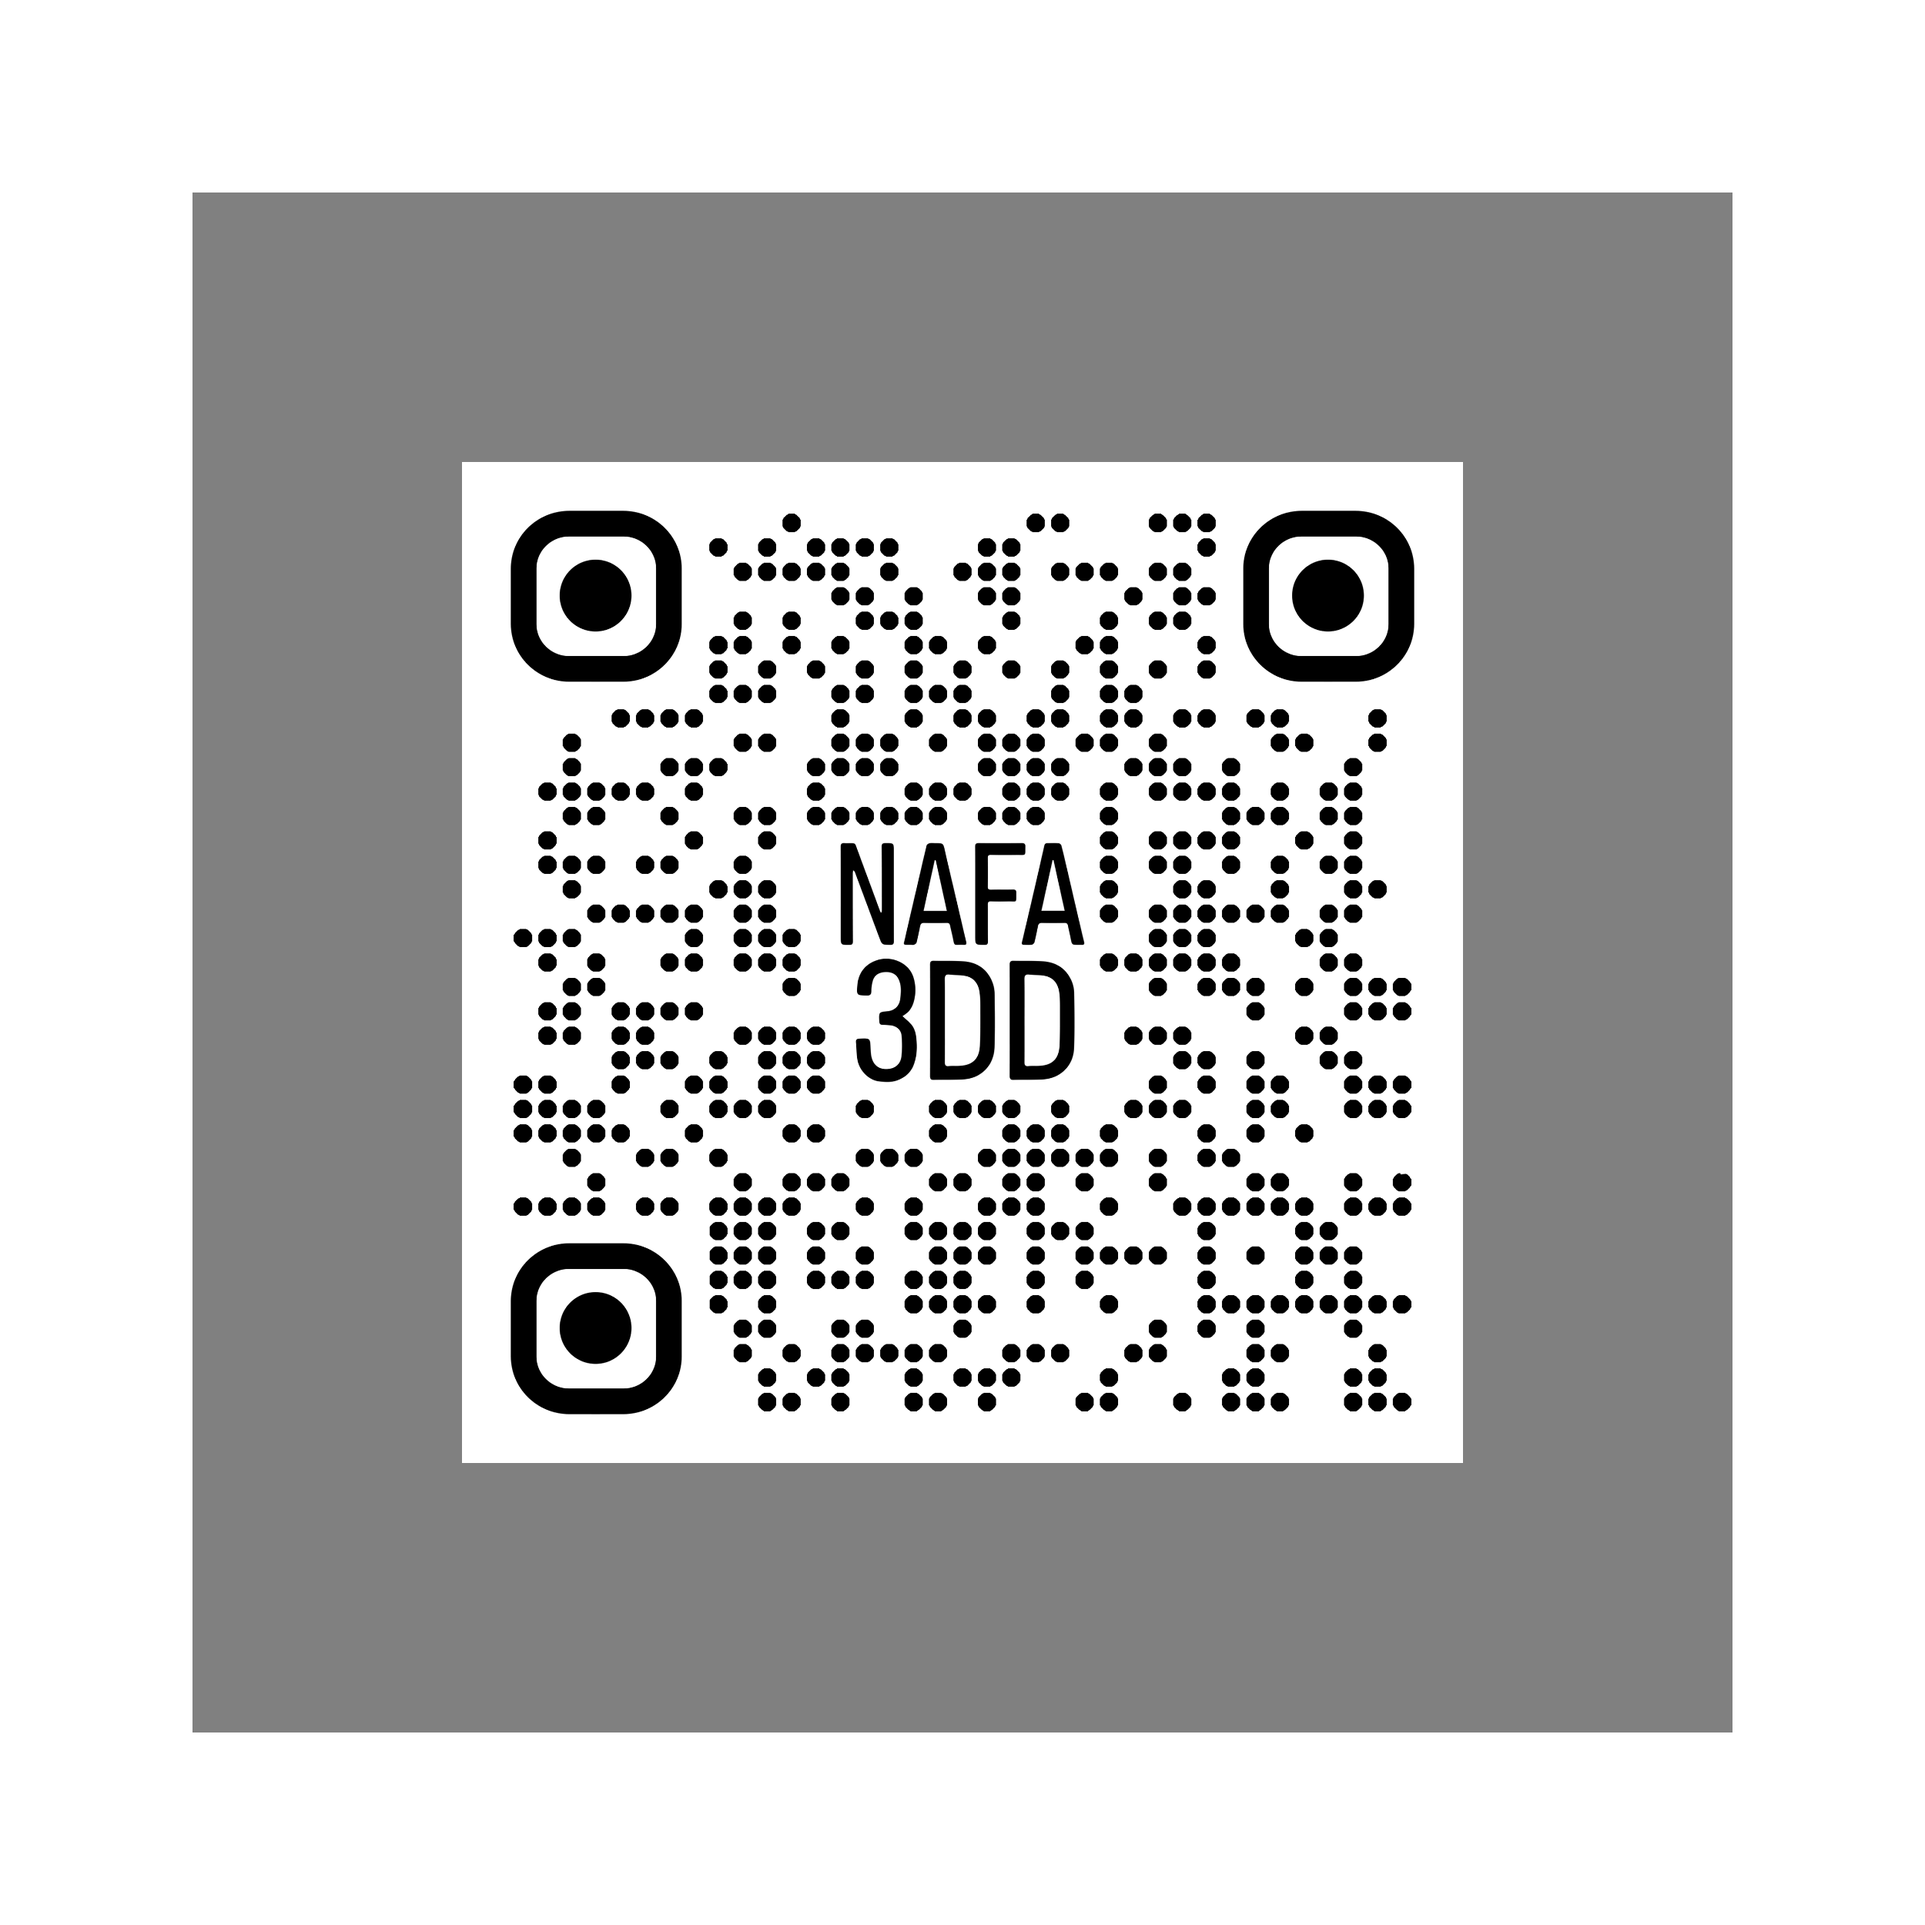
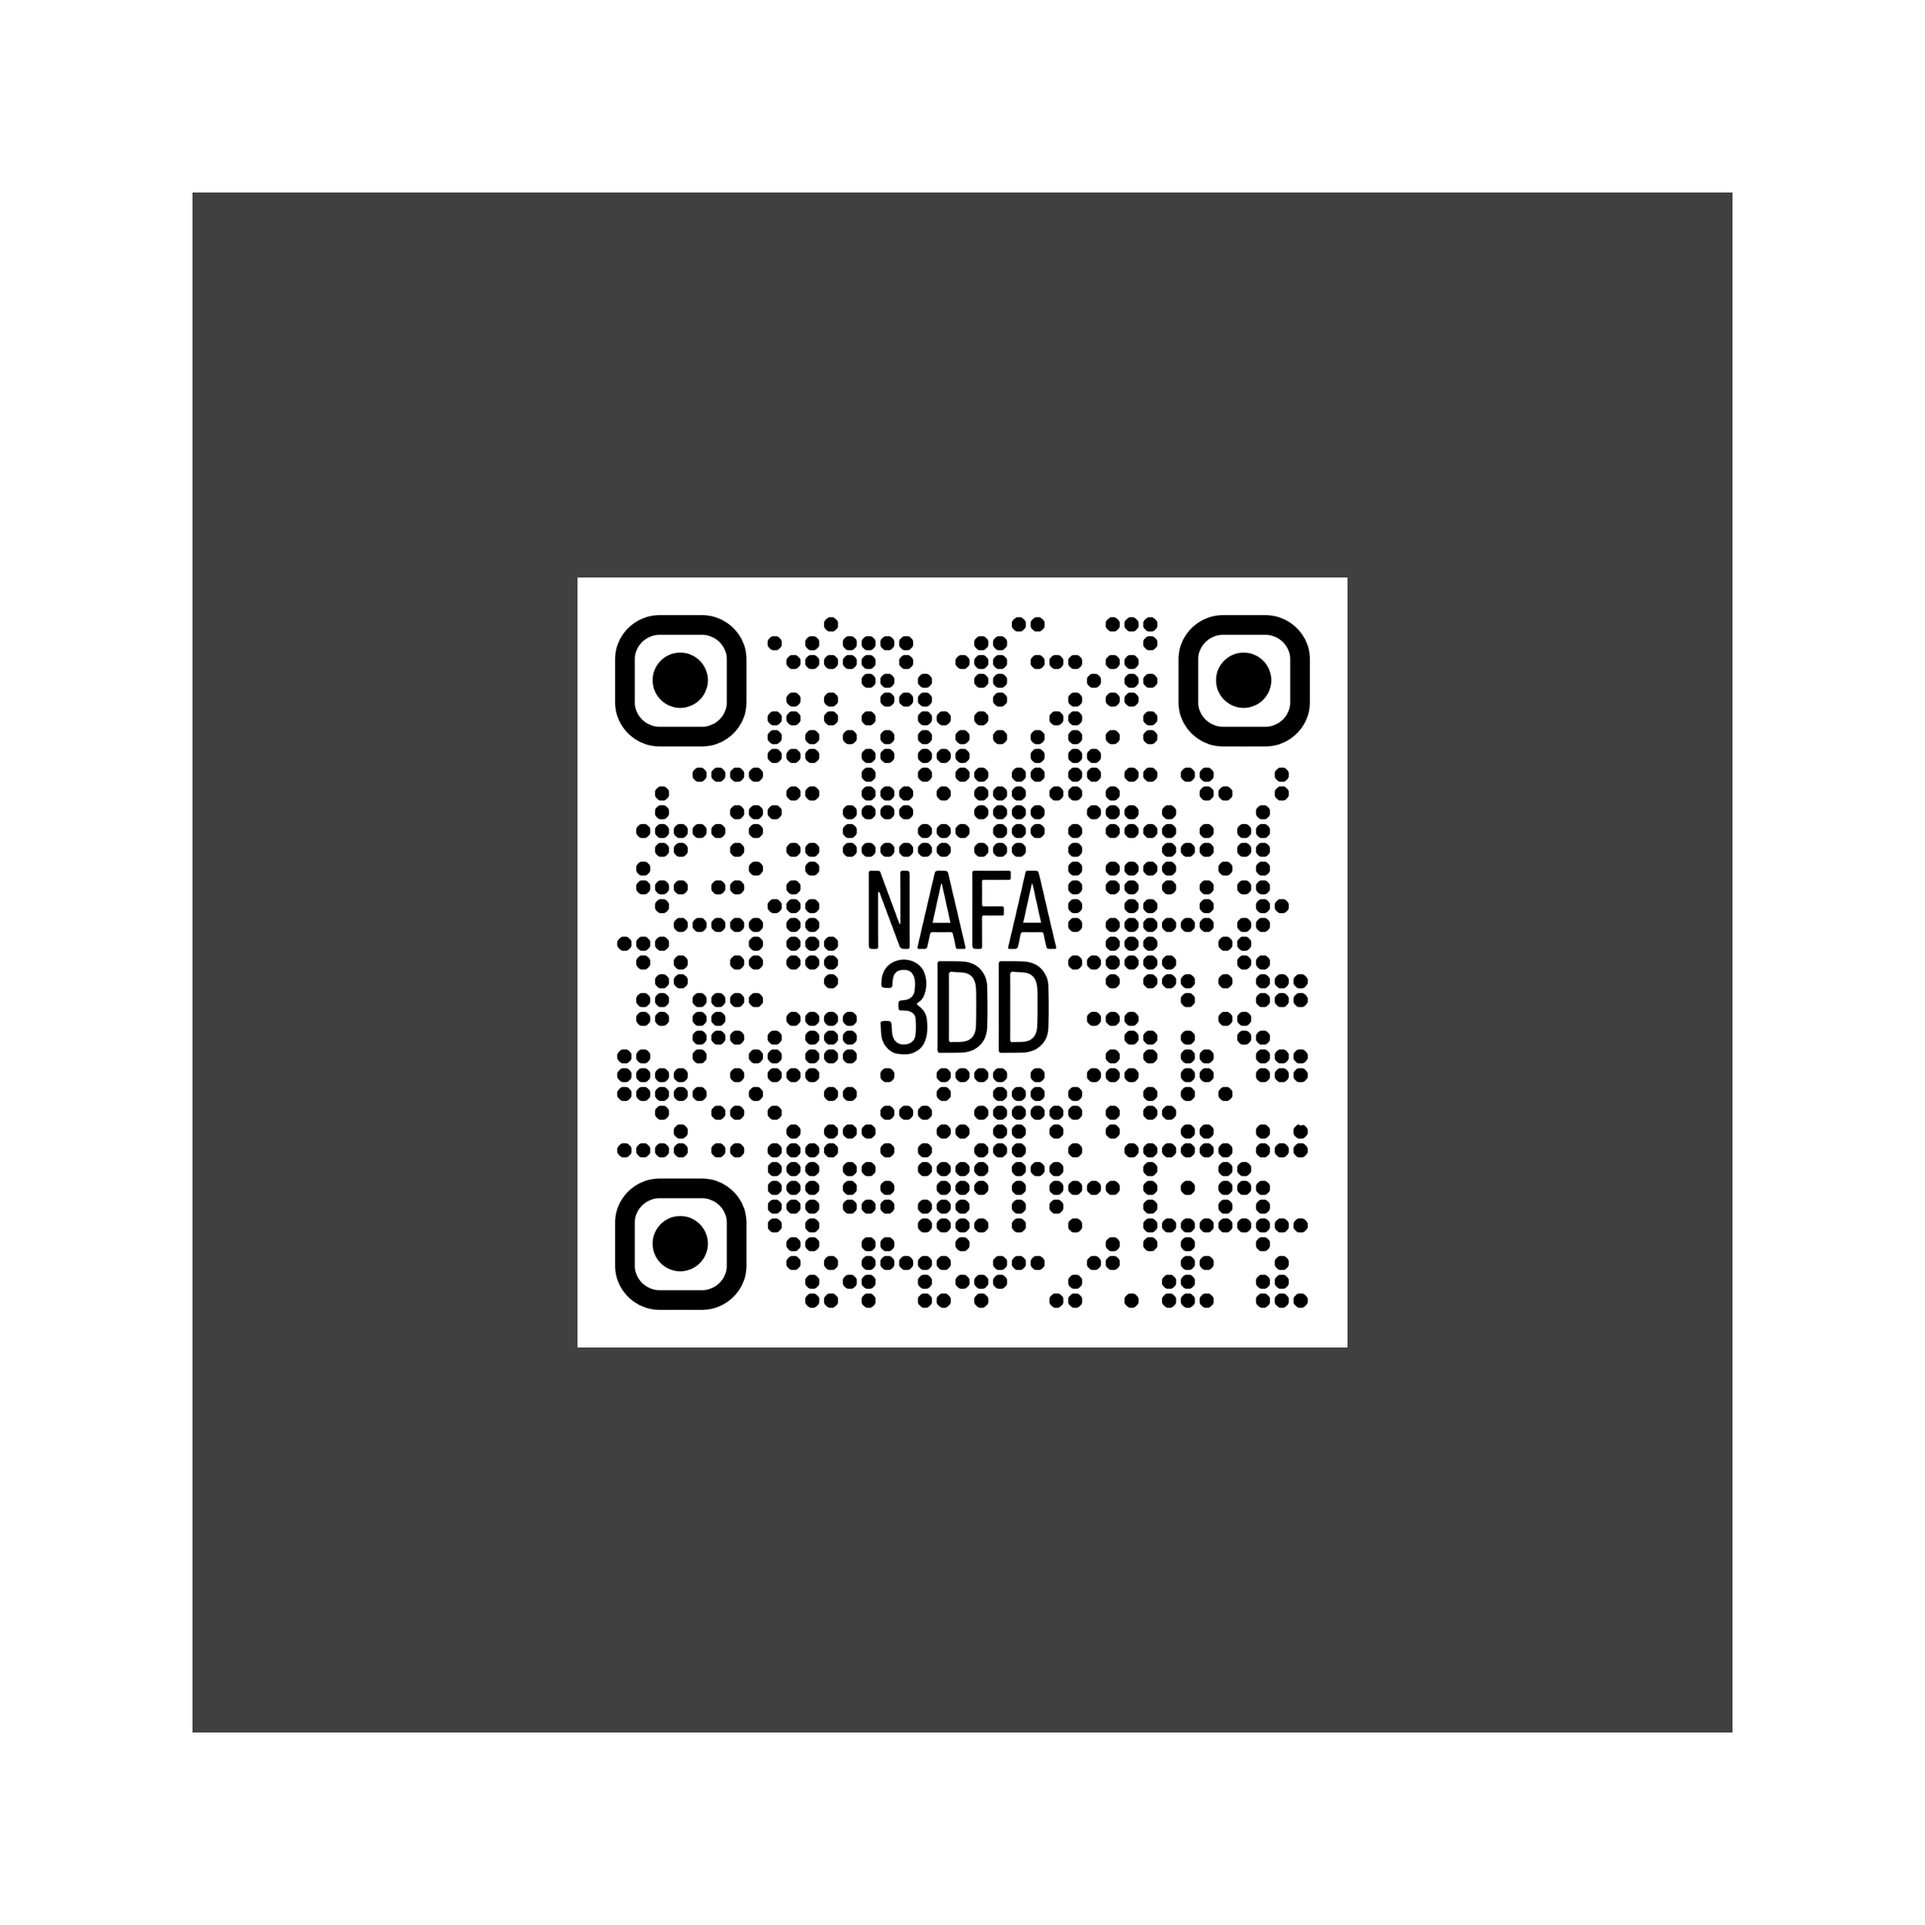
update grey

diff --git a/index.html b/index.html
@@ -37,7 +37,7 @@
 
      <a-marker 
        type="pattern" 
-       url="https://cdn.glitch.global/b08091d8-2ebd-4277-9f0e-5d160ad8d8bb/nafa3ddgithub.patt?v=1673355723460"
+       url="https://cdn.glitch.global/b08091d8-2ebd-4277-9f0e-5d160ad8d8bb/nafa3ddgithubgrey.patt?v=1673411665475"
        raycaster="objects: .clickable"
        emitevents="true"
        cursor="fuse: false; rayOrigin: mouse;"
